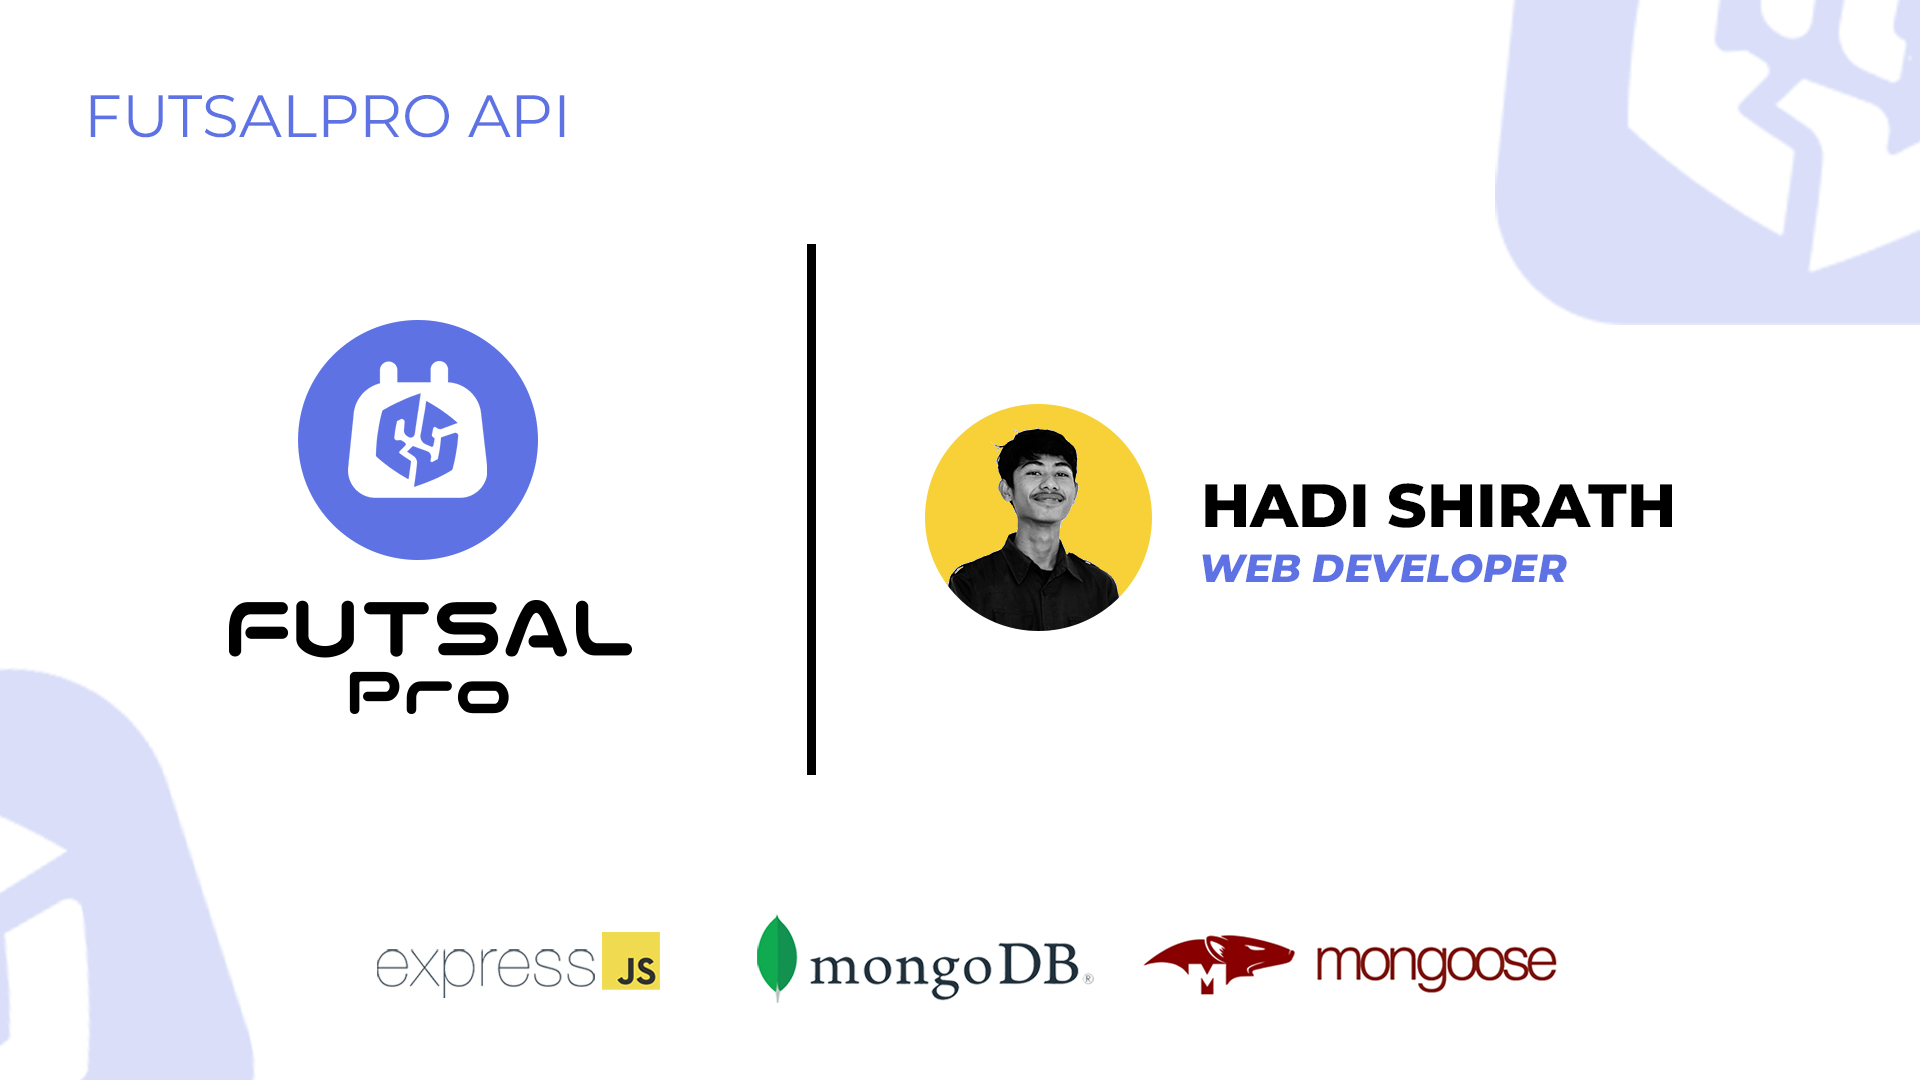
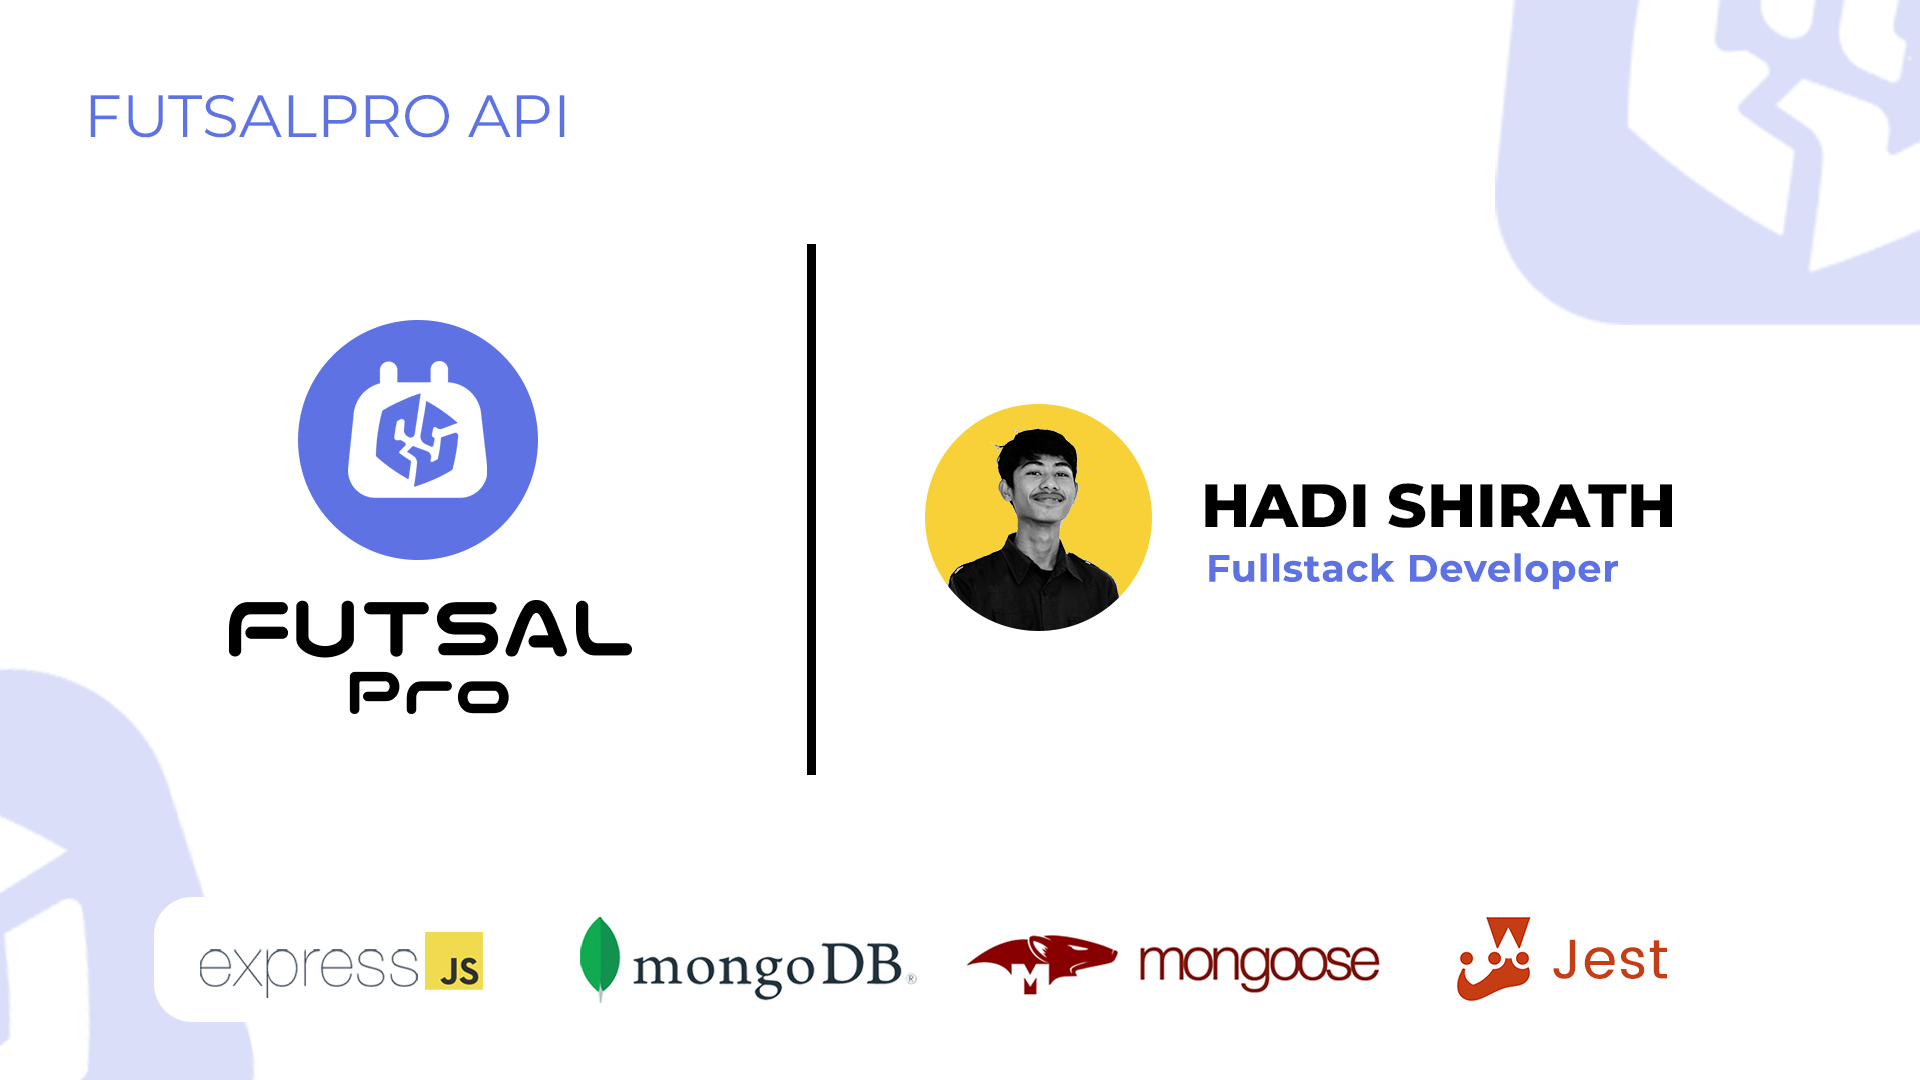
unit-testing

Changed region(s): [[0.0625, 0.825, 0.875, 0.9472], [0.625, 0.4889, 0.8438, 0.55]]

diff --git a/README.md b/README.md
@@ -1,6 +1,6 @@
 # FutsalPro API Postman Collection
 
-[![Run in Postman](https://run.pstmn.io/button.svg)](https://documenter.getpostman.com/view/25132098/2sA2xnyAAx)
+[![Run in Postman](https://run.pstmn.io/button.svg)](https://documenter.getpostman.com/view/25132098/2sA3e5eoer)
 
 ## Introduction
 
@@ -12,7 +12,7 @@
 2. Import:
 
    - Use this button to download:
-     [![Run in Postman](https://run.pstmn.io/button.svg)](https://documenter.getpostman.com/view/25132098/2sA2xnyAAx) , or
+     [![Run in Postman](https://run.pstmn.io/button.svg)](https://documenter.getpostman.com/view/25132098/2sA3e5eoer) , or
    - Clone or [download](../../archive/master.zip) this repository, then import postman collections from `FutsalPro API.postman_collection.json` file.
 
 3. Add file `.env` and config `.env`
@@ -36,3 +36,4 @@
 4. Authentication JWT Token.
 5. Password hashing & Encryption with BcryptJs.
 6. 7 Collection folders contain a total of 29 API Endpoints.
+7. Unit Testing with Jest (33 unit tests)
